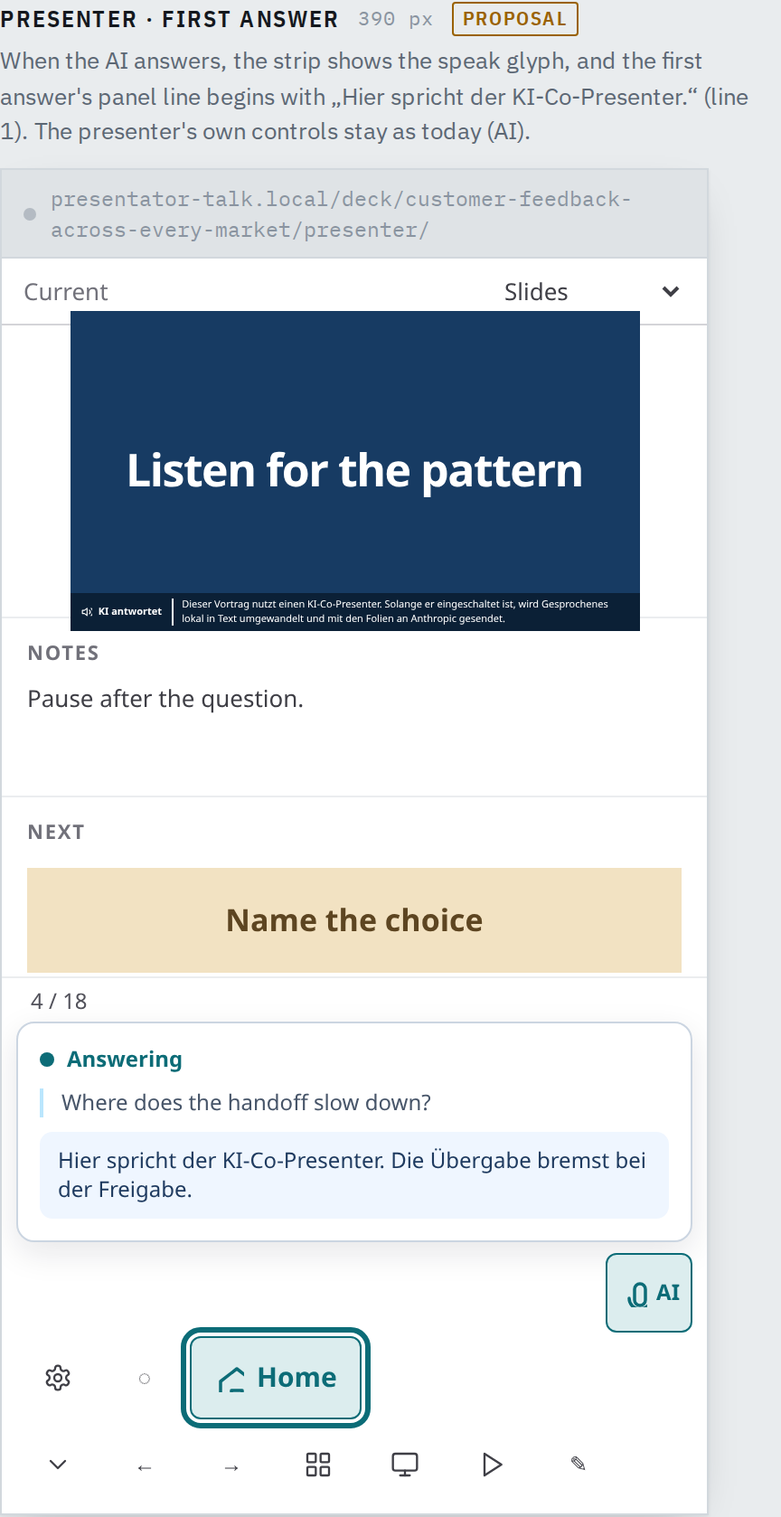
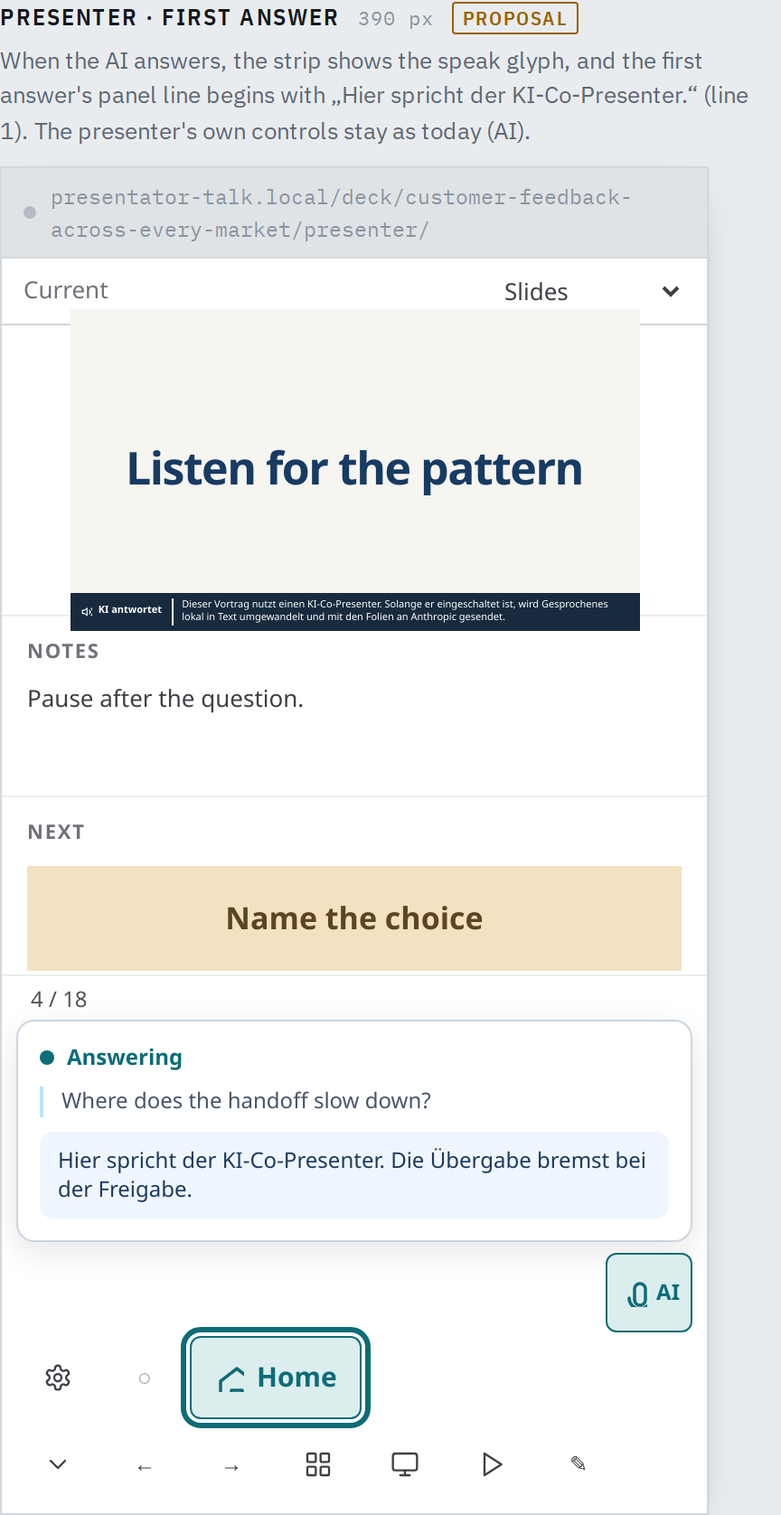
Cite #293's S12 lines on the room boards and draw the presenter preview on the projector's slide
The room-off, alternative and presenter-answering notes counted bullets of #525 or intro-sentence lines of #293 side by side; every board and the README Lines column now cite #293 S12's expectation lines. The presenter preview uses the light slide the projector boards draw, and the empty style attributes are gone. Serves #525.

diff --git a/docs/mockups/m0-lobby.html b/docs/mockups/m0-lobby.html
@@ -1568,10 +1568,9 @@
   .room-slide { position: relative; display: flex; aspect-ratio: 16 / 9; overflow: hidden; align-items: center; justify-content: center; font-family: ui-sans-serif, system-ui, sans-serif; --room-font: 14px; }
   .room-slide--light { background: #F7F5F0; color: #173B63; }
   .room-slide--dark { background: #0E1A2B; color: #F2F5F9; }
-  .room-slide--dark-blue { background: #173B63; color: #fff; }
   .room-slide--busy { align-items: flex-start; padding-top: 5%; }
   .room-slide__title { font-size: 4.4em; font-weight: 700; letter-spacing: -.04em; text-align: center; }
-  .room-slide--light, .room-slide--dark { font-size: calc(var(--room-font) * .4); }
+  .room-slide--light:not(.presenter-slide), .room-slide--dark { font-size: calc(var(--room-font) * .4); }
   .room-zoom { zoom: .5; width: 1920px; }
   .room-zoom .room-slide { font-size: 12px; }
   .room-strip { position: absolute; inset: auto 0 0; display: flex; align-items: center; gap: 1.1em; padding: .7em 1.1em; background: #0B1F33F0; color: #fff; font-size: var(--room-font); font-weight: 400; letter-spacing: 0; line-height: 1.35; text-align: left; }
@@ -4249,11 +4248,11 @@ Cannot resolve import "./folien/03-fabric.md" from slides.md
       <figure class="board" id="room-off">
         <figcaption class="board-cap">
           <div class="board-title">Projector · AI off <span class="w">1024 px</span> <span class="open-mark">proposal</span></div>
-          <p class="board-note">The slide and nothing else. Line 1: with the AI off, the room sees no label at all.</p>
+          <p class="board-note">The slide and nothing else. Line 3: with the AI off, the room sees no label at all.</p>
         </figcaption>
         <div class="frame" style="--w: 960px">
           <div class="route">presentator-talk.local/deck/agenten-fabrik/</div>
-          <div class="room-slide room-slide--light" style=""><div class="room-slide__title">From feedback to flow</div></div>
+          <div class="room-slide room-slide--light"><div class="room-slide__title">From feedback to flow</div></div>
         </div>
       </figure>
 
@@ -4264,7 +4263,7 @@ Cannot resolve import "./folien/03-fabric.md" from slides.md
         </figcaption>
         <div class="frame" style="--w: 960px">
           <div class="route">presentator-talk.local/deck/agenten-fabrik/</div>
-          <div class="room-slide room-slide--light" style=""><div class="room-slide__title">From feedback to flow</div><div class="room-strip "><span class="room-strip__state"><span class="room-strip__dot"></span>KI hört zu</span><span class="room-strip__text">Dieser Vortrag nutzt einen KI-Co-Presenter. Solange er eingeschaltet ist, wird Gesprochenes lokal in Text umgewandelt und mit den Folien an Anthropic gesendet.</span></div></div>
+          <div class="room-slide room-slide--light"><div class="room-slide__title">From feedback to flow</div><div class="room-strip "><span class="room-strip__state"><span class="room-strip__dot"></span>KI hört zu</span><span class="room-strip__text">Dieser Vortrag nutzt einen KI-Co-Presenter. Solange er eingeschaltet ist, wird Gesprochenes lokal in Text umgewandelt und mit den Folien an Anthropic gesendet.</span></div></div>
         </div>
       </figure>
 
@@ -4275,7 +4274,7 @@ Cannot resolve import "./folien/03-fabric.md" from slides.md
         </figcaption>
         <div class="frame" style="--w: 960px">
           <div class="route">presentator-talk.local/deck/agenten-fabrik/</div>
-          <div class="room-slide room-slide--light" style=""><div class="room-slide__title">From feedback to flow</div><div class="room-strip "><span class="room-strip__state"><svg class="room-strip__glyph" viewBox="0 0 24 24" aria-hidden="true"><path d="M11 5 6 9H2v6h4l5 4V5Z"/><path d="M15.54 8.46a5 5 0 0 1 0 7.07"/><path d="M19.07 4.93a10 10 0 0 1 0 14.14"/></svg>KI antwortet</span><span class="room-strip__text">Dieser Vortrag nutzt einen KI-Co-Presenter. Solange er eingeschaltet ist, wird Gesprochenes lokal in Text umgewandelt und mit den Folien an Anthropic gesendet.</span></div></div>
+          <div class="room-slide room-slide--light"><div class="room-slide__title">From feedback to flow</div><div class="room-strip "><span class="room-strip__state"><svg class="room-strip__glyph" viewBox="0 0 24 24" aria-hidden="true"><path d="M11 5 6 9H2v6h4l5 4V5Z"/><path d="M15.54 8.46a5 5 0 0 1 0 7.07"/><path d="M19.07 4.93a10 10 0 0 1 0 14.14"/></svg>KI antwortet</span><span class="room-strip__text">Dieser Vortrag nutzt einen KI-Co-Presenter. Solange er eingeschaltet ist, wird Gesprochenes lokal in Text umgewandelt und mit den Folien an Anthropic gesendet.</span></div></div>
         </div>
       </figure>
 
@@ -4286,7 +4285,7 @@ Cannot resolve import "./folien/03-fabric.md" from slides.md
         </figcaption>
         <div class="frame" style="--w: 960px">
           <div class="route">presentator-talk.local/deck/agenten-fabrik/</div>
-          <div class="room-pair room-pair--wide"><div class="room-slide room-slide--light" style=""><div class="room-slide__title">From feedback to flow</div></div><div class="room-aside"><div class="presenter-kicker">Presenter window</div><div class="copresenter-panel"><span class="copresenter-panel__state copresenter-panel__state--fail"><svg class="room-strip__glyph" viewBox="0 0 24 24" aria-hidden="true"><path d="m21.73 18-8-14a2 2 0 0 0-3.48 0l-8 14A2 2 0 0 0 4 21h16a2 2 0 0 0 1.73-3"/><path d="M12 9v4"/><path d="M12 17h.01"/></svg>Voice offline</span></div></div></div>
+          <div class="room-pair room-pair--wide"><div class="room-slide room-slide--light"><div class="room-slide__title">From feedback to flow</div></div><div class="room-aside"><div class="presenter-kicker">Presenter window</div><div class="copresenter-panel"><span class="copresenter-panel__state copresenter-panel__state--fail"><svg class="room-strip__glyph" viewBox="0 0 24 24" aria-hidden="true"><path d="m21.73 18-8-14a2 2 0 0 0-3.48 0l-8 14A2 2 0 0 0 4 21h16a2 2 0 0 0 1.73-3"/><path d="M12 9v4"/><path d="M12 17h.01"/></svg>Voice offline</span></div></div></div>
         </div>
       </figure>
 
@@ -4297,14 +4296,14 @@ Cannot resolve import "./folien/03-fabric.md" from slides.md
         </figcaption>
         <div class="frame" style="--w: 960px">
           <div class="route">presentator-talk.local/deck/agenten-fabrik/</div>
-          <div class="room-slide room-slide--light room-slide--busy" style=""><div class="room-slide__title">From feedback to flow</div><div class="room-chart"><div class="room-chart__bars"><span style="height:38%"></span><span style="height:55%"></span><span style="height:72%"></span><span style="height:46%"></span></div><div class="room-chart__axis"><span>Q1</span><span>Q2</span><span>Q3</span><span>Q4</span></div></div><div class="room-footer"><span>Agenten-Fabrik</span><span>4 / 18</span></div><div class="room-strip "><span class="room-strip__state"><span class="room-strip__dot"></span>KI hört zu</span><span class="room-strip__text">Dieser Vortrag nutzt einen KI-Co-Presenter. Solange er eingeschaltet ist, wird Gesprochenes lokal in Text umgewandelt und mit den Folien an Anthropic gesendet.</span></div></div>
+          <div class="room-slide room-slide--light room-slide--busy"><div class="room-slide__title">From feedback to flow</div><div class="room-chart"><div class="room-chart__bars"><span style="height:38%"></span><span style="height:55%"></span><span style="height:72%"></span><span style="height:46%"></span></div><div class="room-chart__axis"><span>Q1</span><span>Q2</span><span>Q3</span><span>Q4</span></div></div><div class="room-footer"><span>Agenten-Fabrik</span><span>4 / 18</span></div><div class="room-strip "><span class="room-strip__state"><span class="room-strip__dot"></span>KI hört zu</span><span class="room-strip__text">Dieser Vortrag nutzt einen KI-Co-Presenter. Solange er eingeschaltet ist, wird Gesprochenes lokal in Text umgewandelt und mit den Folien an Anthropic gesendet.</span></div></div>
         </div>
       </figure>
 
       <figure class="board" id="room-alt-banner-pill">
         <figcaption class="board-cap">
           <div class="board-title">Projector · alternative <span class="w">1024 px</span> <span class="open-mark">proposal</span></div>
-          <p class="board-note">For comparison with the strip (line 6): left, a banner with the sentence until the first answer; right, a compact pill in the corner after it. The pill keeps the room's screen freer; the sentence is on screen only once.</p>
+          <p class="board-note">For comparison with the strip (the alternative to line 4): left, a banner with the sentence until the first answer; right, a compact pill in the corner after it. The pill keeps the room's screen freer; the sentence is on screen only once.</p>
         </figcaption>
         <div class="frame" style="--w: 960px">
           <div class="route">presentator-talk.local/deck/agenten-fabrik/</div>
@@ -4341,7 +4340,7 @@ Cannot resolve import "./folien/03-fabric.md" from slides.md
         </figcaption>
         <div class="frame" style="--w: 960px">
           <div class="route">presentator-talk.local/deck/agenten-fabrik/</div>
-          <div class="room-slide room-slide--dark" style=""><div class="room-slide__title">From feedback to flow</div><div class="room-strip "><span class="room-strip__state"><span class="room-strip__dot"></span>KI hört zu</span><span class="room-strip__text">Dieser Vortrag nutzt einen KI-Co-Presenter. Solange er eingeschaltet ist, wird Gesprochenes lokal in Text umgewandelt und mit den Folien an Anthropic gesendet.</span></div></div>
+          <div class="room-slide room-slide--dark"><div class="room-slide__title">From feedback to flow</div><div class="room-strip "><span class="room-strip__state"><span class="room-strip__dot"></span>KI hört zu</span><span class="room-strip__text">Dieser Vortrag nutzt einen KI-Co-Presenter. Solange er eingeschaltet ist, wird Gesprochenes lokal in Text umgewandelt und mit den Folien an Anthropic gesendet.</span></div></div>
         </div>
       </figure>
 
@@ -4352,7 +4351,7 @@ Cannot resolve import "./folien/03-fabric.md" from slides.md
         </figcaption>
         <div class="frame" style="--w: 960px">
           <div class="route">presentator-talk.local/deck/agenten-fabrik/</div>
-          <div class="room-slide room-slide--dark" style=""><div class="room-slide__title">From feedback to flow</div><div class="room-strip "><span class="room-strip__state"><svg class="room-strip__glyph" viewBox="0 0 24 24" aria-hidden="true"><path d="M11 5 6 9H2v6h4l5 4V5Z"/><path d="M15.54 8.46a5 5 0 0 1 0 7.07"/><path d="M19.07 4.93a10 10 0 0 1 0 14.14"/></svg>KI antwortet</span><span class="room-strip__text">Dieser Vortrag nutzt einen KI-Co-Presenter. Solange er eingeschaltet ist, wird Gesprochenes lokal in Text umgewandelt und mit den Folien an Anthropic gesendet.</span></div></div>
+          <div class="room-slide room-slide--dark"><div class="room-slide__title">From feedback to flow</div><div class="room-strip "><span class="room-strip__state"><svg class="room-strip__glyph" viewBox="0 0 24 24" aria-hidden="true"><path d="M11 5 6 9H2v6h4l5 4V5Z"/><path d="M15.54 8.46a5 5 0 0 1 0 7.07"/><path d="M19.07 4.93a10 10 0 0 1 0 14.14"/></svg>KI antwortet</span><span class="room-strip__text">Dieser Vortrag nutzt einen KI-Co-Presenter. Solange er eingeschaltet ist, wird Gesprochenes lokal in Text umgewandelt und mit den Folien an Anthropic gesendet.</span></div></div>
         </div>
       </figure>
 
@@ -4365,7 +4364,7 @@ Cannot resolve import "./folien/03-fabric.md" from slides.md
           <div class="route">presentator-talk.local/deck/agenten-fabrik/presenter/</div>
           <div class="presenter-stage">
             <div class="presenter-grid">
-              <section class="presenter-panel presenter-main"><div class="presenter-toolbar"><span>Current</span><span class="presenter-toolbar__spacer"></span><select class="presenter-select" aria-label="Presenter view"><option>Slides</option><option>Screen Mirror</option></select></div><div class="presenter-main-body"><div class="presenter-slide room-slide room-slide--dark-blue">From feedback to flow<div class="room-strip room-strip--mini"><span class="room-strip__state"><span class="room-strip__dot"></span>KI hört zu</span><span class="room-strip__text">Dieser Vortrag nutzt einen KI-Co-Presenter. Solange er eingeschaltet ist, wird Gesprochenes lokal in Text umgewandelt und mit den Folien an Anthropic gesendet.</span></div></div></div></section>
+              <section class="presenter-panel presenter-main"><div class="presenter-toolbar"><span>Current</span><span class="presenter-toolbar__spacer"></span><select class="presenter-select" aria-label="Presenter view"><option>Slides</option><option>Screen Mirror</option></select></div><div class="presenter-main-body"><div class="presenter-slide room-slide room-slide--light">From feedback to flow<div class="room-strip room-strip--mini"><span class="room-strip__state"><span class="room-strip__dot"></span>KI hört zu</span><span class="room-strip__text">Dieser Vortrag nutzt einen KI-Co-Presenter. Solange er eingeschaltet ist, wird Gesprochenes lokal in Text umgewandelt und mit den Folien an Anthropic gesendet.</span></div></div></div></section>
               <section class="presenter-panel presenter-next"><span class="presenter-kicker">Next</span><div class="presenter-preview">Make the handoff visible</div></section>
               <section class="presenter-panel presenter-note"><span class="presenter-kicker">Notes</span><p>Ask for one example before moving to the next step.</p></section>
               <div class="presenter-panel presenter-bottom"><span class="presenter-controls"><span class="presenter-control"><svg class="icon" width="18" height="18" aria-hidden="true"><use href="#icon-chevron-down"></use></svg></span><span class="presenter-control" aria-hidden="true">&larr;</span><span class="presenter-control" aria-hidden="true">&rarr;</span><span class="presenter-control"><svg class="icon" width="18" height="18" aria-hidden="true"><use href="#icon-layout-grid"></use></svg></span><span class="presenter-control"><svg class="icon" width="18" height="18" aria-hidden="true"><use href="#icon-monitor"></use></svg></span><span class="presenter-control"><svg class="icon" width="18" height="18" aria-hidden="true"><use href="#icon-play"></use></svg></span><span class="presenter-control" aria-hidden="true">&#9998;</span><span class="presenter-control"><svg class="icon" width="18" height="18" aria-hidden="true"><use href="#icon-settings"></use></svg></span><span class="presenter-control" aria-hidden="true">&#9676;</span><a class="presenter-control presenter-control--home" href="/" aria-label="Home" title="Home"><svg class="icon" width="18" height="18" aria-hidden="true"><path d="m3 10 9-7 9 7v10a1 1 0 0 1-1 1h-5v-6H9v6H4a1 1 0 0 1-1-1Z" fill="none" stroke="currentColor" stroke-width="1.75" stroke-linejoin="round"></path></svg><span>Home</span></a><span class="copresenter-toolbar"><span class="copresenter-panel"><span class="copresenter-panel__state"><span class="copresenter-panel__dot"></span>Listening</span><span class="copresenter-panel__heard">Where does the handoff slow down?</span></span><button class="presenter-control presenter-control--ai presenter-control--ai-active" type="button" aria-pressed="true" title="CoPresenter"><svg class="icon" width="18" height="18" aria-hidden="true"><path d="M12 3a3 3 0 0 0-3 3v6a3 3 0 0 0 6 0V6a3 3 0 0 0-3-3Zm-6 8a6 6 0 0 0 12 0M12 17v4M8 21h8" fill="none" stroke="currentColor" stroke-width="1.75" stroke-linecap="round"></path></svg><span>AI</span></button></span><span class="presenter-count">4 / 18</span></span></div>
@@ -4382,7 +4381,7 @@ Cannot resolve import "./folien/03-fabric.md" from slides.md
           <div class="route">presentator-talk.local/deck/agenten-fabrik/presenter/</div>
           <div class="presenter-stage">
             <div class="presenter-grid">
-              <section class="presenter-panel presenter-main"><div class="presenter-toolbar"><span>Current</span><span class="presenter-toolbar__spacer"></span><select class="presenter-select" aria-label="Presenter view"><option>Slides</option><option>Screen Mirror</option></select></div><div class="presenter-main-body"><div class="presenter-slide room-slide room-slide--dark-blue">From feedback to flow<div class="room-strip room-strip--mini"><span class="room-strip__state"><svg class="room-strip__glyph" viewBox="0 0 24 24" aria-hidden="true"><path d="M11 5 6 9H2v6h4l5 4V5Z"/><path d="M15.54 8.46a5 5 0 0 1 0 7.07"/><path d="M19.07 4.93a10 10 0 0 1 0 14.14"/></svg>KI antwortet</span><span class="room-strip__text">Dieser Vortrag nutzt einen KI-Co-Presenter. Solange er eingeschaltet ist, wird Gesprochenes lokal in Text umgewandelt und mit den Folien an Anthropic gesendet.</span></div></div></div></section>
+              <section class="presenter-panel presenter-main"><div class="presenter-toolbar"><span>Current</span><span class="presenter-toolbar__spacer"></span><select class="presenter-select" aria-label="Presenter view"><option>Slides</option><option>Screen Mirror</option></select></div><div class="presenter-main-body"><div class="presenter-slide room-slide room-slide--light">From feedback to flow<div class="room-strip room-strip--mini"><span class="room-strip__state"><svg class="room-strip__glyph" viewBox="0 0 24 24" aria-hidden="true"><path d="M11 5 6 9H2v6h4l5 4V5Z"/><path d="M15.54 8.46a5 5 0 0 1 0 7.07"/><path d="M19.07 4.93a10 10 0 0 1 0 14.14"/></svg>KI antwortet</span><span class="room-strip__text">Dieser Vortrag nutzt einen KI-Co-Presenter. Solange er eingeschaltet ist, wird Gesprochenes lokal in Text umgewandelt und mit den Folien an Anthropic gesendet.</span></div></div></div></section>
               <section class="presenter-panel presenter-next"><span class="presenter-kicker">Next</span><div class="presenter-preview">Make the handoff visible</div></section>
               <section class="presenter-panel presenter-note"><span class="presenter-kicker">Notes</span><p>Ask for one example before moving to the next step.</p></section>
               <div class="presenter-panel presenter-bottom"><span class="presenter-controls"><span class="presenter-control"><svg class="icon" width="18" height="18" aria-hidden="true"><use href="#icon-chevron-down"></use></svg></span><span class="presenter-control" aria-hidden="true">&larr;</span><span class="presenter-control" aria-hidden="true">&rarr;</span><span class="presenter-control"><svg class="icon" width="18" height="18" aria-hidden="true"><use href="#icon-layout-grid"></use></svg></span><span class="presenter-control"><svg class="icon" width="18" height="18" aria-hidden="true"><use href="#icon-monitor"></use></svg></span><span class="presenter-control"><svg class="icon" width="18" height="18" aria-hidden="true"><use href="#icon-play"></use></svg></span><span class="presenter-control" aria-hidden="true">&#9998;</span><span class="presenter-control"><svg class="icon" width="18" height="18" aria-hidden="true"><use href="#icon-settings"></use></svg></span><span class="presenter-control" aria-hidden="true">&#9676;</span><a class="presenter-control presenter-control--home" href="/" aria-label="Home" title="Home"><svg class="icon" width="18" height="18" aria-hidden="true"><path d="m3 10 9-7 9 7v10a1 1 0 0 1-1 1h-5v-6H9v6H4a1 1 0 0 1-1-1Z" fill="none" stroke="currentColor" stroke-width="1.75" stroke-linejoin="round"></path></svg><span>Home</span></a><span class="copresenter-toolbar"><span class="copresenter-panel"><span class="copresenter-panel__state"><span class="copresenter-panel__dot"></span>Answering</span><span class="copresenter-panel__heard">Where does the handoff slow down?</span><span class="copresenter-panel__answer">Hier spricht der KI-Co-Presenter. Die Übergabe bremst bei der Freigabe.</span></span><button class="presenter-control presenter-control--ai presenter-control--ai-active" type="button" aria-pressed="true" title="CoPresenter"><svg class="icon" width="18" height="18" aria-hidden="true"><path d="M12 3a3 3 0 0 0-3 3v6a3 3 0 0 0 6 0V6a3 3 0 0 0-3-3Zm-6 8a6 6 0 0 0 12 0M12 17v4M8 21h8" fill="none" stroke="currentColor" stroke-width="1.75" stroke-linecap="round"></path></svg><span>AI</span></button></span><span class="presenter-count">4 / 18</span></span></div>
@@ -4399,7 +4398,7 @@ Cannot resolve import "./folien/03-fabric.md" from slides.md
           <div class="route">presentator-talk.local/deck/customer-feedback-across-every-market/presenter/</div>
           <div class="presenter-stage">
             <div class="presenter-grid">
-              <section class="presenter-panel presenter-main"><div class="presenter-toolbar"><span>Current</span><span class="presenter-toolbar__spacer"></span><select class="presenter-select" aria-label="Presenter view"><option>Slides</option><option>Screen Mirror</option></select></div><div class="presenter-main-body"><div class="presenter-slide room-slide room-slide--dark-blue">Listen for the pattern<div class="room-strip room-strip--mini room-strip--mini-narrow"><span class="room-strip__state"><span class="room-strip__dot"></span>KI hört zu</span><span class="room-strip__text">Dieser Vortrag nutzt einen KI-Co-Presenter. Solange er eingeschaltet ist, wird Gesprochenes lokal in Text umgewandelt und mit den Folien an Anthropic gesendet.</span></div></div></div></section>
+              <section class="presenter-panel presenter-main"><div class="presenter-toolbar"><span>Current</span><span class="presenter-toolbar__spacer"></span><select class="presenter-select" aria-label="Presenter view"><option>Slides</option><option>Screen Mirror</option></select></div><div class="presenter-main-body"><div class="presenter-slide room-slide room-slide--light">Listen for the pattern<div class="room-strip room-strip--mini room-strip--mini-narrow"><span class="room-strip__state"><span class="room-strip__dot"></span>KI hört zu</span><span class="room-strip__text">Dieser Vortrag nutzt einen KI-Co-Presenter. Solange er eingeschaltet ist, wird Gesprochenes lokal in Text umgewandelt und mit den Folien an Anthropic gesendet.</span></div></div></div></section>
               <section class="presenter-panel presenter-next"><span class="presenter-kicker">Next</span><div class="presenter-preview">Name the choice</div></section>
               <section class="presenter-panel presenter-note"><span class="presenter-kicker">Notes</span><p>Pause after the question.</p></section>
               <div class="presenter-panel presenter-bottom"><span class="presenter-controls"><span class="presenter-control"><svg class="icon" width="18" height="18" aria-hidden="true"><use href="#icon-chevron-down"></use></svg></span><span class="presenter-control" aria-hidden="true">&larr;</span><span class="presenter-control" aria-hidden="true">&rarr;</span><span class="presenter-control"><svg class="icon" width="18" height="18" aria-hidden="true"><use href="#icon-layout-grid"></use></svg></span><span class="presenter-control"><svg class="icon" width="18" height="18" aria-hidden="true"><use href="#icon-monitor"></use></svg></span><span class="presenter-control"><svg class="icon" width="18" height="18" aria-hidden="true"><use href="#icon-play"></use></svg></span><span class="presenter-control" aria-hidden="true">&#9998;</span><span class="presenter-control"><svg class="icon" width="18" height="18" aria-hidden="true"><use href="#icon-settings"></use></svg></span><span class="presenter-control" aria-hidden="true">&#9676;</span><a class="presenter-control presenter-control--home presenter-control--focused" href="/" aria-label="Home" title="Home"><svg class="icon" width="18" height="18" aria-hidden="true"><path d="m3 10 9-7 9 7v10a1 1 0 0 1-1 1h-5v-6H9v6H4a1 1 0 0 1-1-1Z" fill="none" stroke="currentColor" stroke-width="1.75" stroke-linejoin="round"></path></svg><span>Home</span></a><span class="copresenter-toolbar"><span class="copresenter-panel"><span class="copresenter-panel__state"><span class="copresenter-panel__dot"></span>Listening</span><span class="copresenter-panel__heard">Where does the handoff slow down?</span></span><button class="presenter-control presenter-control--ai presenter-control--ai-active" type="button" aria-pressed="true" title="CoPresenter"><svg class="icon" width="18" height="18" aria-hidden="true"><path d="M12 3a3 3 0 0 0-3 3v6a3 3 0 0 0 6 0V6a3 3 0 0 0-3-3Zm-6 8a6 6 0 0 0 12 0M12 17v4M8 21h8" fill="none" stroke="currentColor" stroke-width="1.75" stroke-linecap="round"></path></svg><span>AI</span></button></span><span class="presenter-count">4 / 18</span></span></div>
@@ -4416,7 +4415,7 @@ Cannot resolve import "./folien/03-fabric.md" from slides.md
           <div class="route">presentator-talk.local/deck/customer-feedback-across-every-market/presenter/</div>
           <div class="presenter-stage">
             <div class="presenter-grid">
-              <section class="presenter-panel presenter-main"><div class="presenter-toolbar"><span>Current</span><span class="presenter-toolbar__spacer"></span><select class="presenter-select" aria-label="Presenter view"><option>Slides</option><option>Screen Mirror</option></select></div><div class="presenter-main-body"><div class="presenter-slide room-slide room-slide--dark-blue">Listen for the pattern<div class="room-strip room-strip--mini room-strip--mini-narrow"><span class="room-strip__state"><svg class="room-strip__glyph" viewBox="0 0 24 24" aria-hidden="true"><path d="M11 5 6 9H2v6h4l5 4V5Z"/><path d="M15.54 8.46a5 5 0 0 1 0 7.07"/><path d="M19.07 4.93a10 10 0 0 1 0 14.14"/></svg>KI antwortet</span><span class="room-strip__text">Dieser Vortrag nutzt einen KI-Co-Presenter. Solange er eingeschaltet ist, wird Gesprochenes lokal in Text umgewandelt und mit den Folien an Anthropic gesendet.</span></div></div></div></section>
+              <section class="presenter-panel presenter-main"><div class="presenter-toolbar"><span>Current</span><span class="presenter-toolbar__spacer"></span><select class="presenter-select" aria-label="Presenter view"><option>Slides</option><option>Screen Mirror</option></select></div><div class="presenter-main-body"><div class="presenter-slide room-slide room-slide--light">Listen for the pattern<div class="room-strip room-strip--mini room-strip--mini-narrow"><span class="room-strip__state"><svg class="room-strip__glyph" viewBox="0 0 24 24" aria-hidden="true"><path d="M11 5 6 9H2v6h4l5 4V5Z"/><path d="M15.54 8.46a5 5 0 0 1 0 7.07"/><path d="M19.07 4.93a10 10 0 0 1 0 14.14"/></svg>KI antwortet</span><span class="room-strip__text">Dieser Vortrag nutzt einen KI-Co-Presenter. Solange er eingeschaltet ist, wird Gesprochenes lokal in Text umgewandelt und mit den Folien an Anthropic gesendet.</span></div></div></div></section>
               <section class="presenter-panel presenter-next"><span class="presenter-kicker">Next</span><div class="presenter-preview">Name the choice</div></section>
               <section class="presenter-panel presenter-note"><span class="presenter-kicker">Notes</span><p>Pause after the question.</p></section>
               <div class="presenter-panel presenter-bottom"><span class="presenter-controls"><span class="presenter-control"><svg class="icon" width="18" height="18" aria-hidden="true"><use href="#icon-chevron-down"></use></svg></span><span class="presenter-control" aria-hidden="true">&larr;</span><span class="presenter-control" aria-hidden="true">&rarr;</span><span class="presenter-control"><svg class="icon" width="18" height="18" aria-hidden="true"><use href="#icon-layout-grid"></use></svg></span><span class="presenter-control"><svg class="icon" width="18" height="18" aria-hidden="true"><use href="#icon-monitor"></use></svg></span><span class="presenter-control"><svg class="icon" width="18" height="18" aria-hidden="true"><use href="#icon-play"></use></svg></span><span class="presenter-control" aria-hidden="true">&#9998;</span><span class="presenter-control"><svg class="icon" width="18" height="18" aria-hidden="true"><use href="#icon-settings"></use></svg></span><span class="presenter-control" aria-hidden="true">&#9676;</span><a class="presenter-control presenter-control--home presenter-control--focused" href="/" aria-label="Home" title="Home"><svg class="icon" width="18" height="18" aria-hidden="true"><path d="m3 10 9-7 9 7v10a1 1 0 0 1-1 1h-5v-6H9v6H4a1 1 0 0 1-1-1Z" fill="none" stroke="currentColor" stroke-width="1.75" stroke-linejoin="round"></path></svg><span>Home</span></a><span class="copresenter-toolbar"><span class="copresenter-panel"><span class="copresenter-panel__state"><span class="copresenter-panel__dot"></span>Answering</span><span class="copresenter-panel__heard">Where does the handoff slow down?</span><span class="copresenter-panel__answer">Hier spricht der KI-Co-Presenter. Die Übergabe bremst bei der Freigabe.</span></span><button class="presenter-control presenter-control--ai presenter-control--ai-active" type="button" aria-pressed="true" title="CoPresenter"><svg class="icon" width="18" height="18" aria-hidden="true"><path d="M12 3a3 3 0 0 0-3 3v6a3 3 0 0 0 6 0V6a3 3 0 0 0-3-3Zm-6 8a6 6 0 0 0 12 0M12 17v4M8 21h8" fill="none" stroke="currentColor" stroke-width="1.75" stroke-linecap="round"></path></svg><span>AI</span></button></span><span class="presenter-count">4 / 18</span></span></div>

diff --git a/docs/mockups/README.md b/docs/mockups/README.md
@@ -139,25 +139,25 @@ The notice that the room hears an AI. The projector shows a slim strip at the
 bottom of the slide only while the AI is on and hearing, and nothing otherwise;
 the strip carries the sentence of #293's E8 and is never a control. The presenter
 window shows the same strip in its current-slide preview, and its first
-answer opens with „Hier spricht der KI-Co-Presenter.“ "Lines" are the numbered
-picture lines of #525; the Datenschutz boards are untouched.
+answer opens with „Hier spricht der KI-Co-Presenter.“ "Lines" are the expectation lines of #293 S12 (1 Vorstellung, 2 Sprache im
+Raum, 3 Ruhe auf der Leinwand, 4 Form des Hinweises); the Datenschutz boards are untouched.
 
 | PNG | Caption | Lines |
 |---|---|---|
-| `m0-lobby/room-off.png` | Projector, AI off: no label, 1024 px | 1 |
-| `m0-lobby/room-listening.png` | Projector, AI listening: strip with E8's sentence, 1024 px | 2 |
-| `m0-lobby/room-answering.png` | Projector, AI answering: strip with the speak glyph, 1024 px | 3 |
-| `m0-lobby/room-not-hearing.png` | Projector, AI on but not hearing: no strip, presenter window shows the failure, 1024 px | 4 |
-| `m0-lobby/room-busy.png` | Projector, strip over a busy bottom edge, 1024 px | 5 |
-| `m0-lobby/room-alt-banner-pill.png` | Alternative to the strip: banner until the first answer, then a corner pill, 1024 px | 6 |
-| `m0-lobby/room-listening-1920.png` | Projector, AI listening, 1920 px (shown at half size) | 2 |
-| `m0-lobby/room-answering-1920.png` | Projector, AI answering, 1920 px (shown at half size) | 3 |
-| `m0-lobby/room-listening-dark.png` | Projector, AI listening, dark theme, 1024 px | 2 |
-| `m0-lobby/room-answering-dark.png` | Projector, AI answering, dark theme, 1024 px | 3 |
-| `m0-lobby/room-presenter-listening.png` | Presenter, AI listening: the preview shows the strip, 1024 px | 2 |
-| `m0-lobby/room-presenter-answering.png` | Presenter, first answer opens with the intro sentence, 1024 px | 3 |
-| `m0-lobby/room-presenter-listening-narrow.png` | Presenter, AI listening, 390 px | 2 |
-| `m0-lobby/room-presenter-answering-narrow.png` | Presenter, first answer, 390 px | 3 |
+| `m0-lobby/room-off.png` | Projector, AI off: no label, 1024 px | 3 |
+| `m0-lobby/room-listening.png` | Projector, AI listening: strip with E8's sentence, 1024 px | 2, 4 |
+| `m0-lobby/room-answering.png` | Projector, AI answering: strip with the speak glyph, 1024 px | 2, 4 |
+| `m0-lobby/room-not-hearing.png` | Projector, AI on but not hearing: no strip, presenter window shows the failure, 1024 px | 3 |
+| `m0-lobby/room-busy.png` | Projector, strip over a busy bottom edge, 1024 px | 4 |
+| `m0-lobby/room-alt-banner-pill.png` | Alternative to the strip: banner until the first answer, then a corner pill, 1024 px | alternative to 4 |
+| `m0-lobby/room-listening-1920.png` | Projector, AI listening, 1920 px (shown at half size) | 2, 4 |
+| `m0-lobby/room-answering-1920.png` | Projector, AI answering, 1920 px (shown at half size) | 2, 4 |
+| `m0-lobby/room-listening-dark.png` | Projector, AI listening, dark theme, 1024 px | 2, 4 |
+| `m0-lobby/room-answering-dark.png` | Projector, AI answering, dark theme, 1024 px | 2, 4 |
+| `m0-lobby/room-presenter-listening.png` | Presenter, AI listening: the preview shows the strip, 1024 px | 2, 4 |
+| `m0-lobby/room-presenter-answering.png` | Presenter, first answer opens with the intro sentence, 1024 px | 1, 2 |
+| `m0-lobby/room-presenter-listening-narrow.png` | Presenter, AI listening, 390 px | 2, 4 |
+| `m0-lobby/room-presenter-answering-narrow.png` | Presenter, first answer, 390 px | 1, 2 |
 
 ### Rechtliches (#196)
 
